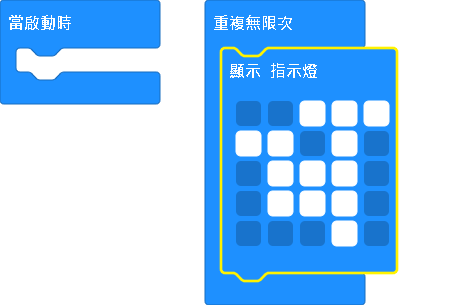
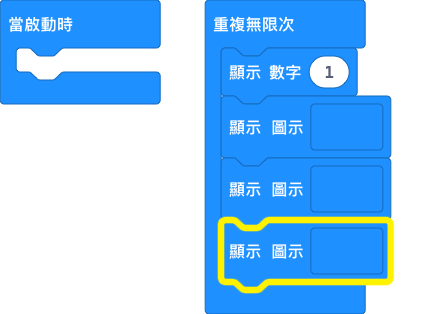
ok

diff --git a/main.ts b/main.ts
@@ -1,9 +1,6 @@
 basic.forever(function () {
-    basic.showLeds(`
-        . . # # #
-        # # . # .
-        . # # # .
-        . # # # .
-        . . . # .
-        `)
+    basic.showNumber(1)
+    basic.showIcon(IconNames.Heart)
+    basic.showIcon(IconNames.SmallHeart)
+    basic.showIcon(IconNames.Tortoise)
 })
